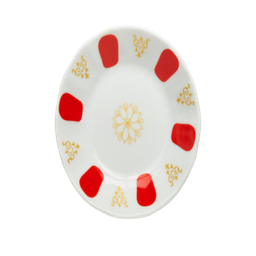
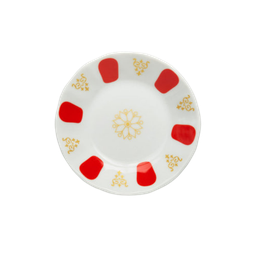
Fix game-over return, countdown skin, image standardization, result screen
Issue 1 - Game doesn't return to lobby:
- All audio (game-start, game-win, game-lose) now preloaded in BootScene;
  ResultScene and CountdownScene had lazy preload() that could hang if
  files were slow/missing, preventing create() and time.delayedCall from running

Issue 2 - Countdown shows wrong skin:
- CountdownScene now renders char-{category}-{skin} for the player's
  selected character instead of the generic player.png fallback

Issue 3 - Tea plate oval / images not uniform:
- Re-copy all 16 skins from source with square padding before resizing;
  çay tabağı (640x477) now padded to 640x640 then scaled to 256x256

Issue 4 - Result screen: winner skin + correct font:
- Result screen uses bg image + dark overlay matching lobby aesthetic
- Winner's category/skin sent from server in game:end event
- Bouncing avatar of winner's character shown in center
- All text uses Fredoka (JapanBrush removed from result screen)
- Winner name above avatar, KAZANDI! below, return text at bottom

v=56

diff --git a/client/scenes/ResultScene.js b/client/scenes/ResultScene.js
@@ -7,55 +7,58 @@ class ResultScene extends Phaser.Scene {
     this.resultData = data;
   }
 
-  preload() {
-    if (!this.cache.audio.exists('sfx-game-win')) {
-      this.load.audio('sfx-game-win', 'assets/game-win.mp3');
-    }
-    if (!this.cache.audio.exists('sfx-game-lose')) {
-      this.load.audio('sfx-game-lose', 'assets/game-lose.mp3');
-    }
-  }
-
   create() {
     var w = this.cameras.main.width;
     var h = this.cameras.main.height;
     var font = 'Fredoka, sans-serif';
     var winnerName = this.resultData.winnerName || null;
+    var winnerCategory = this.resultData.winnerCategory || 'balance';
+    var winnerSkin = this.resultData.winnerSkin !== undefined ? this.resultData.winnerSkin : 0;
     var iWon = winnerName === window._myName;
 
-    // ── Background (matches lobby) ────────────────────────────────
-    var bg = this.add.graphics();
-    bg.fillGradientStyle(0x173a8b, 0x173a8b, 0xFFCEE3, 0xFFCEE3, 1);
-    bg.fillRect(0, 0, w, h);
+    // Background + dark overlay
+    this.add.image(w / 2, h / 2, 'bg').setDisplaySize(w, h);
+    var ov = this.add.graphics();
+    ov.fillStyle(0x000000, 0.55);
+    ov.fillRect(0, 0, w, h);
 
-    // ── Sound ─────────────────────────────────────────────────────
+    // Sound (audio preloaded in BootScene)
     if (winnerName) {
       this.sound.play(iWon ? 'sfx-game-win' : 'sfx-game-lose', { volume: 0.5 });
     } else {
       this.sound.play('sfx-game-win', { volume: 0.3 });
     }
 
-    // ── Winner display ────────────────────────────────────────────
     if (winnerName) {
-      this.add.text(w / 2, h / 2 - 60, winnerName, {
-        fontFamily: 'JapanBrush', fontSize: '54px', color: '#FF85BB',
-        stroke: '#021A54', strokeThickness: 4,
+      // Winner skin — bouncing avatar
+      var skinKey = 'char-' + winnerCategory + '-' + winnerSkin;
+      var texKey = this.textures.exists(skinKey) ? skinKey : 'player';
+      var avatar = this.add.image(w / 2, h / 2 - 30, texKey).setDisplaySize(120, 120);
+      this.tweens.add({
+        targets: avatar, y: avatar.y - 8,
+        duration: 800, yoyo: true, repeat: -1, ease: 'Sine.easeInOut',
+      });
+
+      // Winner name (Fredoka, not JapanBrush)
+      this.add.text(w / 2, h / 2 - 110, winnerName, {
+        fontFamily: font, fontSize: '36px', color: '#FF85BB',
+        fontStyle: 'bold', stroke: '#000000', strokeThickness: 4,
       }).setOrigin(0.5);
 
-      this.add.text(w / 2, h / 2 + 10, 'KAZANDI!', {
-        fontFamily: font, fontSize: '28px', color: '#ffffff',
-        fontStyle: 'bold', stroke: '#021A54', strokeThickness: 3,
+      this.add.text(w / 2, h / 2 + 58, 'KAZANDI!', {
+        fontFamily: font, fontSize: '32px', color: '#ffffff',
+        fontStyle: 'bold', stroke: '#000000', strokeThickness: 5,
       }).setOrigin(0.5);
     } else {
       this.add.text(w / 2, h / 2 - 20, 'BERABERE!', {
-        fontFamily: 'JapanBrush', fontSize: '54px', color: '#FF85BB',
-        stroke: '#021A54', strokeThickness: 4,
+        fontFamily: font, fontSize: '48px', color: '#FF85BB',
+        fontStyle: 'bold', stroke: '#000000', strokeThickness: 5,
       }).setOrigin(0.5);
     }
 
-    this.add.text(w / 2, h / 2 + 72, 'Lobiye dönülüyor...', {
-      fontFamily: font, fontSize: '14px', color: '#aabbee',
-    }).setOrigin(0.5);
+    this.add.text(w / 2, h - 22, 'Lobiye dönülüyor...', {
+      fontFamily: font, fontSize: '13px', color: '#aabbee',
+    }).setOrigin(0.5, 1);
 
     this.time.delayedCall(5000, () => {
       this.scene.start('Lobby');

diff --git a/client/scenes/CountdownScene.js b/client/scenes/CountdownScene.js
@@ -7,12 +7,6 @@ class CountdownScene extends Phaser.Scene {
     this.gameData = data;
   }
 
-  preload() {
-    if (!this.cache.audio.exists('sfx-game-start')) {
-      this.load.audio('sfx-game-start', 'assets/game-start.mp3');
-    }
-  }
-
   create() {
     var w = this.cameras.main.width;
     var h = this.cameras.main.height;
@@ -20,28 +14,29 @@ class CountdownScene extends Phaser.Scene {
     var myId = window.network.id;
     var myData = this.gameData.players[myId];
 
-    // ── Background ───────────────────────────────────────────────
     this.add.image(w / 2, h / 2, 'bg').setDisplaySize(w, h);
 
-    // ── Player avatar + name ──────────────────────────────────────
     if (myData) {
-      var avatar = this.add.image(w / 2, h / 2 - 16, 'player').setDisplaySize(100, 100);
+      // Show the player's selected character skin
+      var skinKey = 'char-' + myData.category + '-' + myData.skin;
+      var texKey = (myData.category && this.textures.exists(skinKey)) ? skinKey : 'player';
+      var avatar = this.add.image(w / 2, h / 2 - 16, texKey).setDisplaySize(110, 110);
       this.tweens.add({
         targets: avatar, y: avatar.y - 8,
         duration: 900, yoyo: true, repeat: -1, ease: 'Sine.easeInOut',
       });
-      this.add.text(w / 2, h / 2 + 58, myData.name || '', {
+      this.add.text(w / 2, h / 2 + 66, myData.name || '', {
         fontFamily: font, fontSize: '20px', color: '#FF85BB',
         stroke: '#021A54', strokeThickness: 3, fontStyle: 'bold',
       }).setOrigin(0.5);
     }
 
+    // Audio preloaded in BootScene
     this.sound.play('sfx-game-start', { volume: 0.5 });
 
-    // ── Countdown numbers ─────────────────────────────────────────
     this.countdownText = this.add.text(w / 2, h - 55, '', {
-      fontFamily: 'JapanBrush', fontSize: '64px', color: '#ffffff',
-      stroke: '#021A54', strokeThickness: 5,
+      fontFamily: font, fontSize: '64px', color: '#ffffff',
+      fontStyle: 'bold', stroke: '#021A54', strokeThickness: 6,
     }).setOrigin(0.5).setAlpha(0);
 
     var self = this;

diff --git a/client/index.html b/client/index.html
@@ -36,16 +36,16 @@
   </div>
   <div id="game-container"></div>
   <script src="socket.io/socket.io.js"></script>
-  <script src="shared/constants.js?v=55"></script>
+  <script src="shared/constants.js?v=56"></script>
   <script src="https://cdn.jsdelivr.net/npm/phaser@3.80.1/dist/phaser.min.js"></script>
-  <script src="network/socket.js?v=55"></script>
-  <script src="input/joystick.js?v=55"></script>
-  <script src="scenes/BootScene.js?v=55"></script>
-  <script src="scenes/LobbyScene.js?v=55"></script>
-  <script src="scenes/CountdownScene.js?v=55"></script>
-  <script src="scenes/GameScene.js?v=55"></script>
-  <script src="scenes/ResultScene.js?v=55"></script>
-  <script src="scenes/SpectatorScene.js?v=55"></script>
-  <script src="main.js?v=55"></script>
+  <script src="network/socket.js?v=56"></script>
+  <script src="input/joystick.js?v=56"></script>
+  <script src="scenes/BootScene.js?v=56"></script>
+  <script src="scenes/LobbyScene.js?v=56"></script>
+  <script src="scenes/CountdownScene.js?v=56"></script>
+  <script src="scenes/GameScene.js?v=56"></script>
+  <script src="scenes/ResultScene.js?v=56"></script>
+  <script src="scenes/SpectatorScene.js?v=56"></script>
+  <script src="main.js?v=56"></script>
 </body>
 </html>

diff --git a/server/game.js b/server/game.js
@@ -229,18 +229,29 @@ class Game {
     clearInterval(this.timerInterval);
     clearTimeout(this.launchTimer);
 
-    // If timer ran out with no explicit winner, pick highest spin player
+    let winnerCategory = 'balance', winnerSkin = 0;
+
     if (!winnerName) {
       let maxSpin = -1;
       for (const p of this.players.values()) {
         if ((p.state === 'active' || p.state === 'launching') && p.spinSpeed > maxSpin) {
           maxSpin = p.spinSpeed;
           winnerName = p.name;
+          winnerCategory = p.category || 'balance';
+          winnerSkin = p.skin || 0;
+        }
+      }
+    } else {
+      for (const p of this.players.values()) {
+        if (p.name === winnerName) {
+          winnerCategory = p.category || 'balance';
+          winnerSkin = p.skin || 0;
+          break;
         }
       }
     }
 
-    this.io.emit('game:end', { winnerName });
+    this.io.emit('game:end', { winnerName, winnerCategory, winnerSkin });
     if (this.onGameEnd) this.onGameEnd();
   }
 

diff --git a/client/scenes/BootScene.js b/client/scenes/BootScene.js
@@ -14,6 +14,9 @@ class BootScene extends Phaser.Scene {
     this.load.image('player', 'assets/player.png');
     this.load.image('bg', 'assets/background.jpeg');
     this.load.audio('sfx-menu', 'assets/menu-music.mp3');
+    this.load.audio('sfx-game-start', 'assets/game-start.mp3');
+    this.load.audio('sfx-game-win', 'assets/game-win.mp3');
+    this.load.audio('sfx-game-lose', 'assets/game-lose.mp3');
 
     var cats = ['attack', 'defence', 'stamina', 'balance'];
     for (var ci = 0; ci < cats.length; ci++) {
